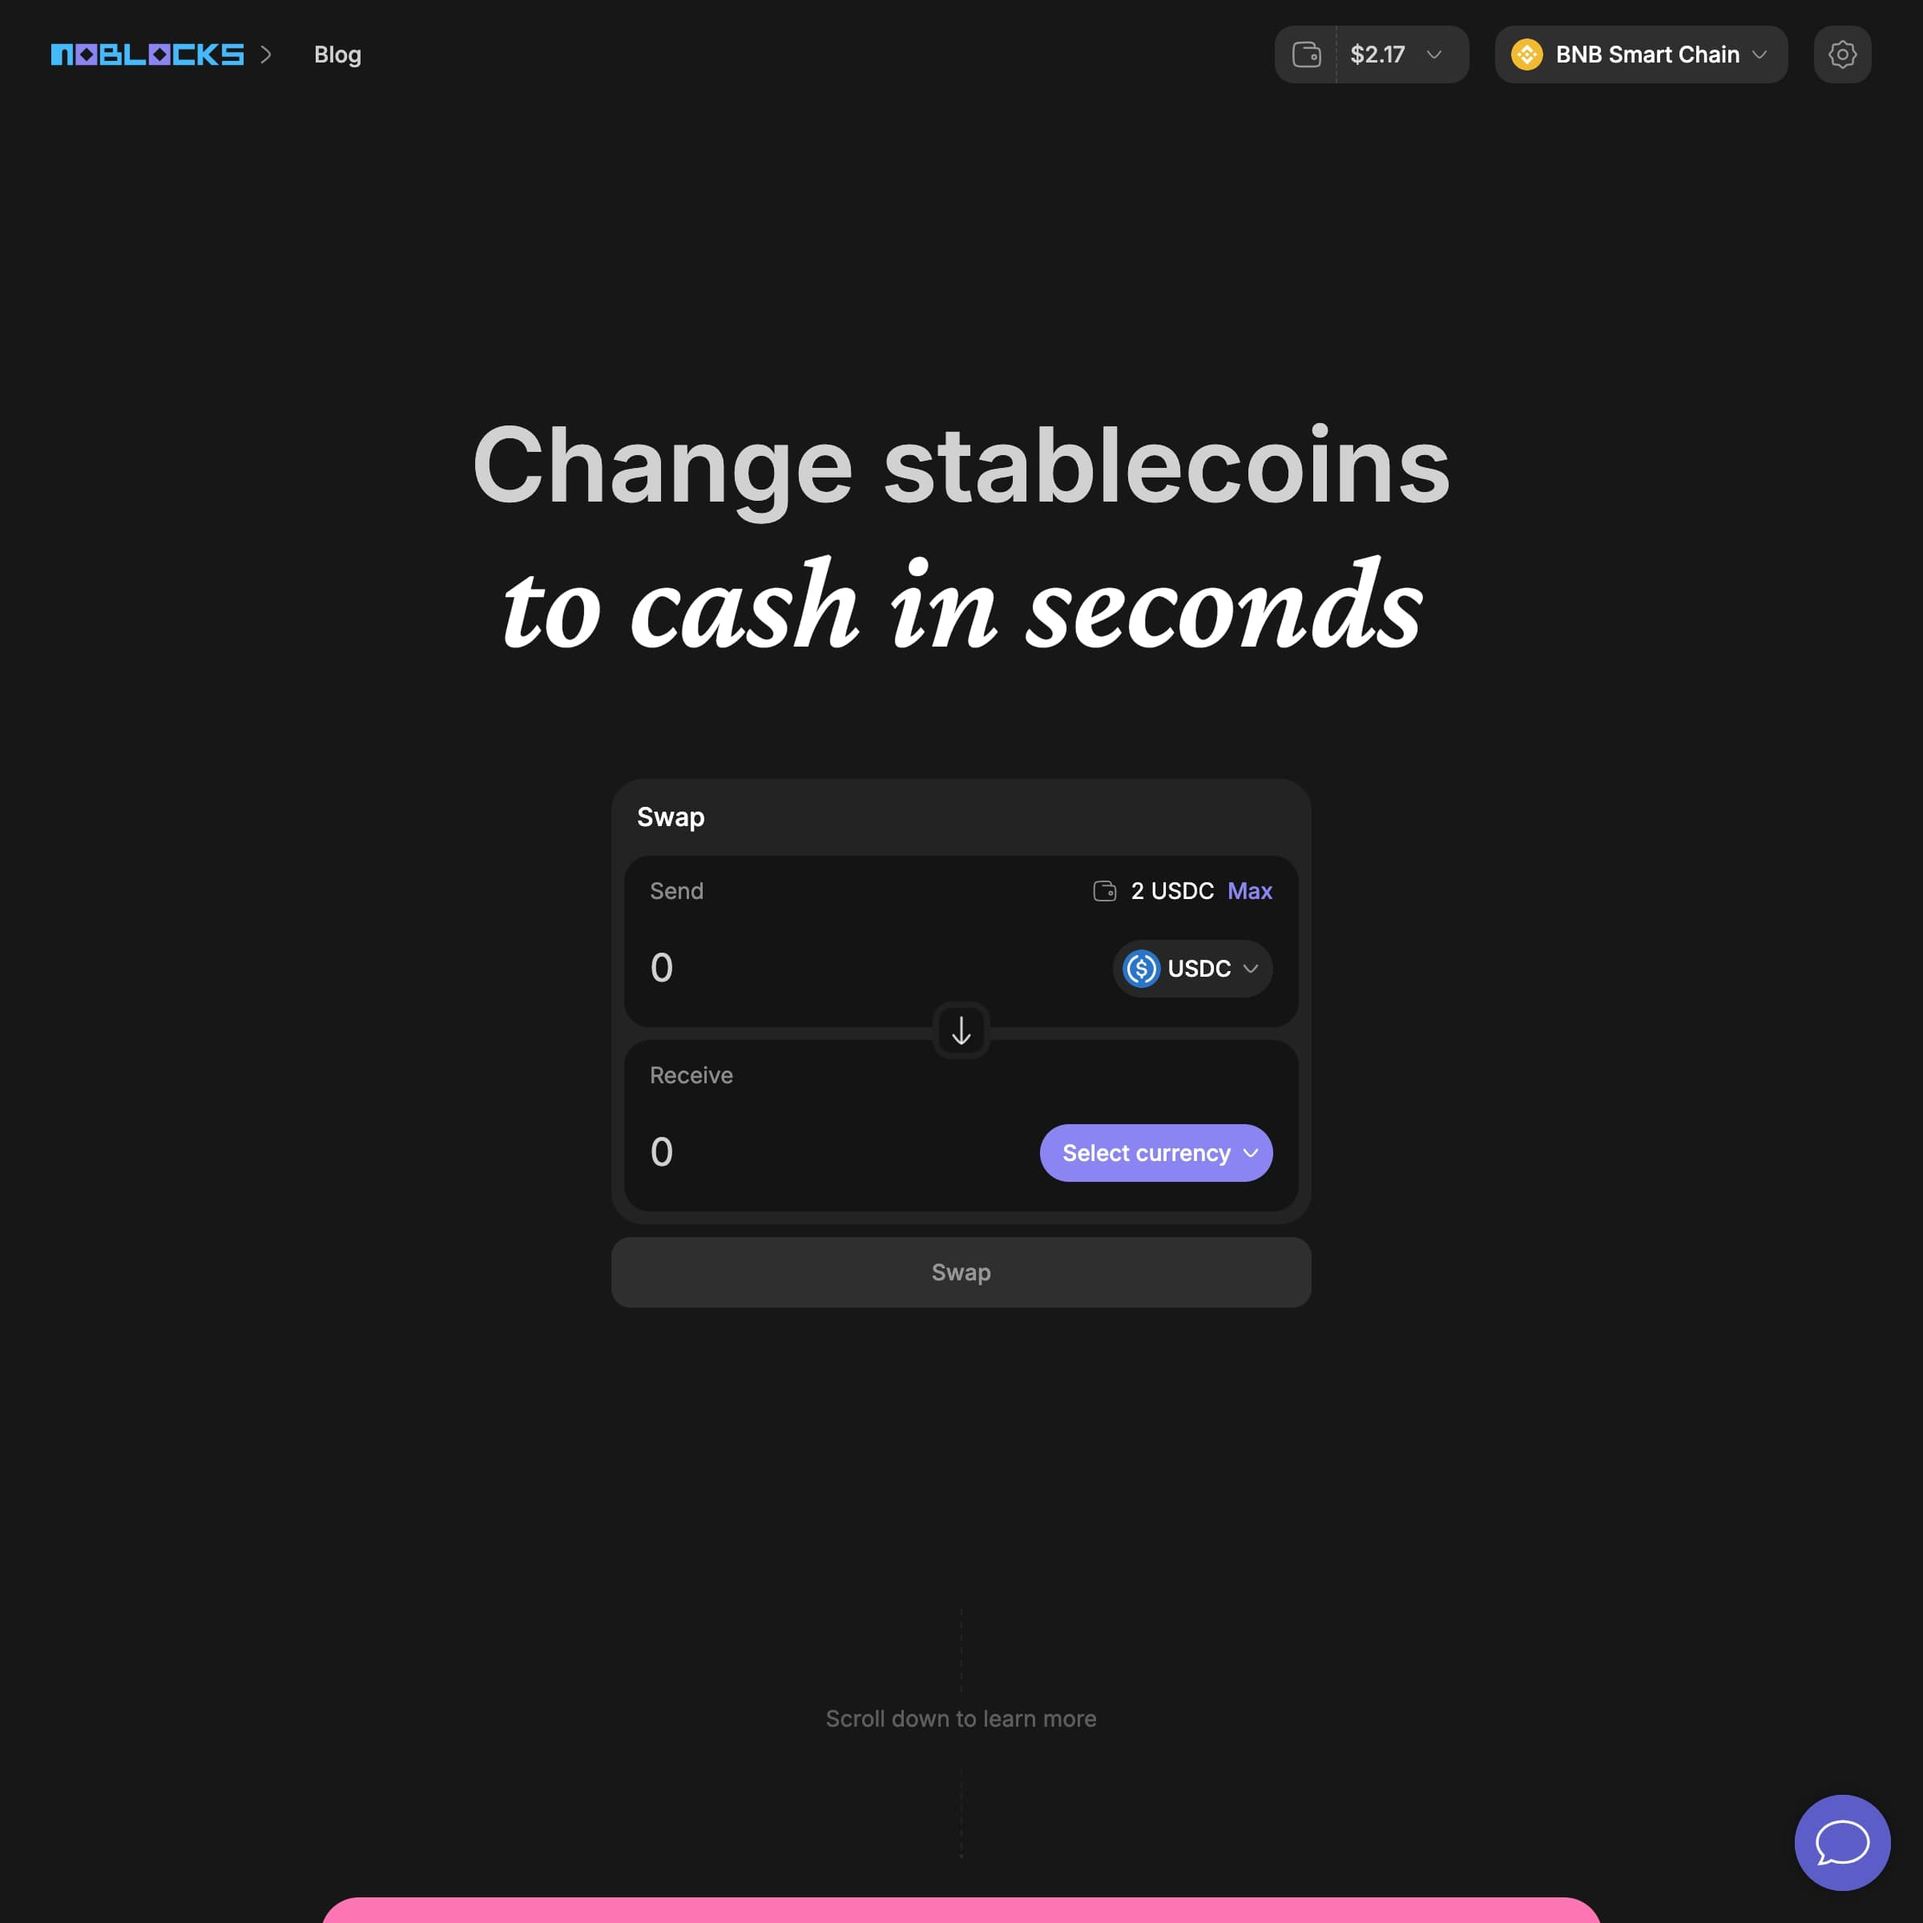
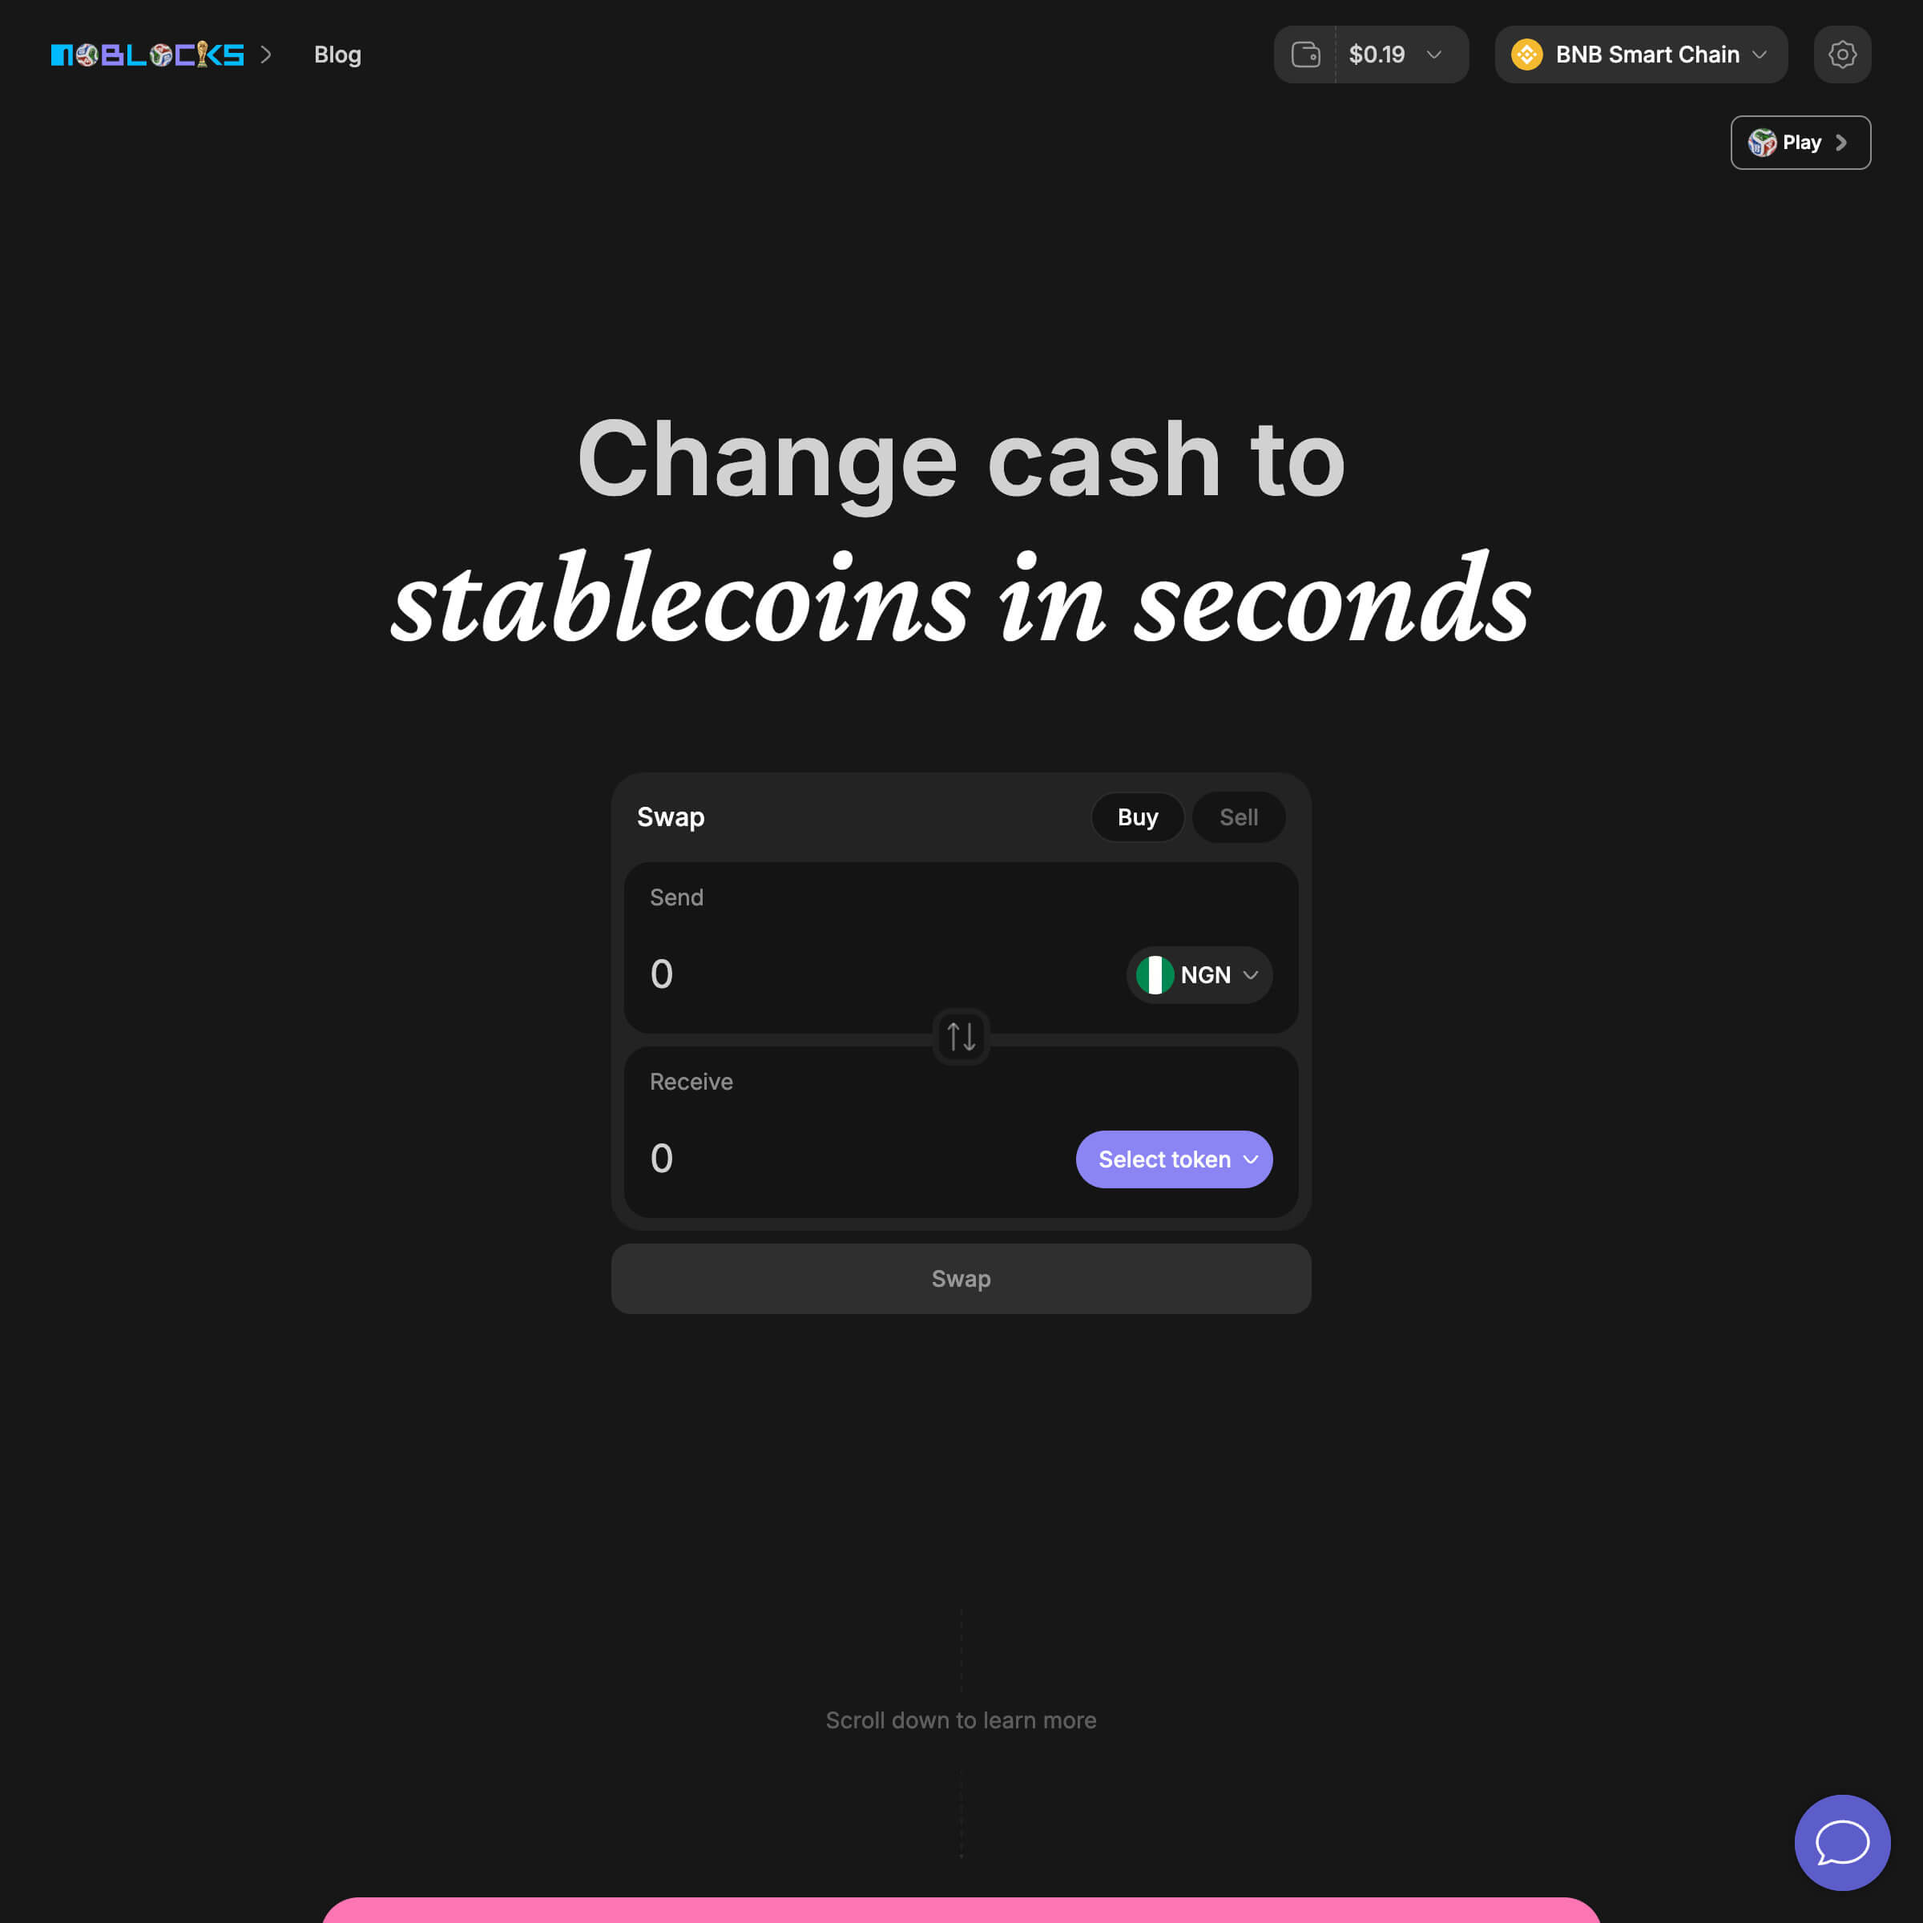
refactor(projects): rearrange showcase order and remove salvage yard
- Remove the obsolete Salvage Yard Store project from projectsData.
- Interleave video preview items with static ones to optimize showcase flow.
- Update noblocks and shape up fitness thumbnails

diff --git a/app/projects/page.tsx b/app/projects/page.tsx
@@ -85,6 +85,8 @@ export default function Projects() {
           grabCursor={true}
           centeredSlides={true}
           slidesPerView={isMobile ? 1 : "auto"}
+          observer={true}
+          observeParents={true}
           coverflowEffect={{
             rotate: 50,
             stretch: 0,
@@ -142,8 +144,11 @@ function ProjectCard({ project, index, onClick }: ProjectCardProps) {
   const [isLoading, setIsLoading] = useState(true);
 
   return (
-    <div className="relative overflow-hidden rounded-2xl border border-black/10 dark:border-white/15" onClick={onClick}>
-      <div className="cursor-pointer">
+    <div
+      className="relative aspect-square h-143.75 w-143.75 overflow-hidden rounded-2xl border border-black/10 max-md:h-auto max-md:w-full dark:border-white/15"
+      onClick={onClick}
+    >
+      <div className="relative h-full w-full cursor-pointer">
         {isLoading && (
           <div className="absolute top-0 left-0 z-10 flex h-full w-full items-center justify-center">
             <ImSpinner9 className="animate-spin text-4xl" />
@@ -153,12 +158,14 @@ function ProjectCard({ project, index, onClick }: ProjectCardProps) {
           <video
             src={videoSrc}
             poster={getOptimizedImageUrl(imageSrc, 575, 575)}
+            width={575}
+            height={575}
             autoPlay
             muted
             loop
             playsInline
             onCanPlay={() => setIsLoading(false)}
-            className="w-full rounded-2xl bg-black/30 max-md:w-full"
+            className="h-full w-full rounded-2xl bg-black/30 object-cover"
           />
         ) : (
           <Image
@@ -172,7 +179,7 @@ function ProjectCard({ project, index, onClick }: ProjectCardProps) {
             placeholder="blur"
             blurDataURL={BLUR_DATA_URL}
             onLoad={() => setIsLoading(false)}
-            className="rounded-2xl bg-black/30 transition-all max-md:w-full"
+            className="h-full w-full rounded-2xl bg-black/30 object-cover transition-all"
           />
         )}
       </div>

diff --git a/data/projects.tsx b/data/projects.tsx
@@ -312,21 +312,6 @@ export const projectsData: ProjectData[] = [
   },
 
   {
-    name: "Salvage Yard Store",
-    link: "https://salvageyard.jeremy0x.dev/",
-    description: "Dual-sided e-commerce platform for electronic devices.",
-    detailedDescription:
-      "E-commerce platform with separate buyer and seller interfaces. Features inventory management, real-time stock updates, customer accounts, and order tracking. Built with Next.js and TypeScript.",
-    logos: [
-      <SiNextdotjs className="text-xl" key="next.js" title="Next.js" />,
-      <BiLogoTailwindCss key="tailwind" title="Tailwind CSS" />,
-      <BiLogoTypescript key="typescript" title="TypeScript" />,
-      <SiFramer className="text-lg" key="framer" title="Framer Motion" />,
-    ],
-    imageSrc: "/projects/salvage-yard-store.jpg",
-  },
-
-  {
     name: "Sentinel Finance",
     link: "https://sentfi.jeremy0x.dev",
     githubLink: "https://github.com/jeremy0x/sentinel-finance",
